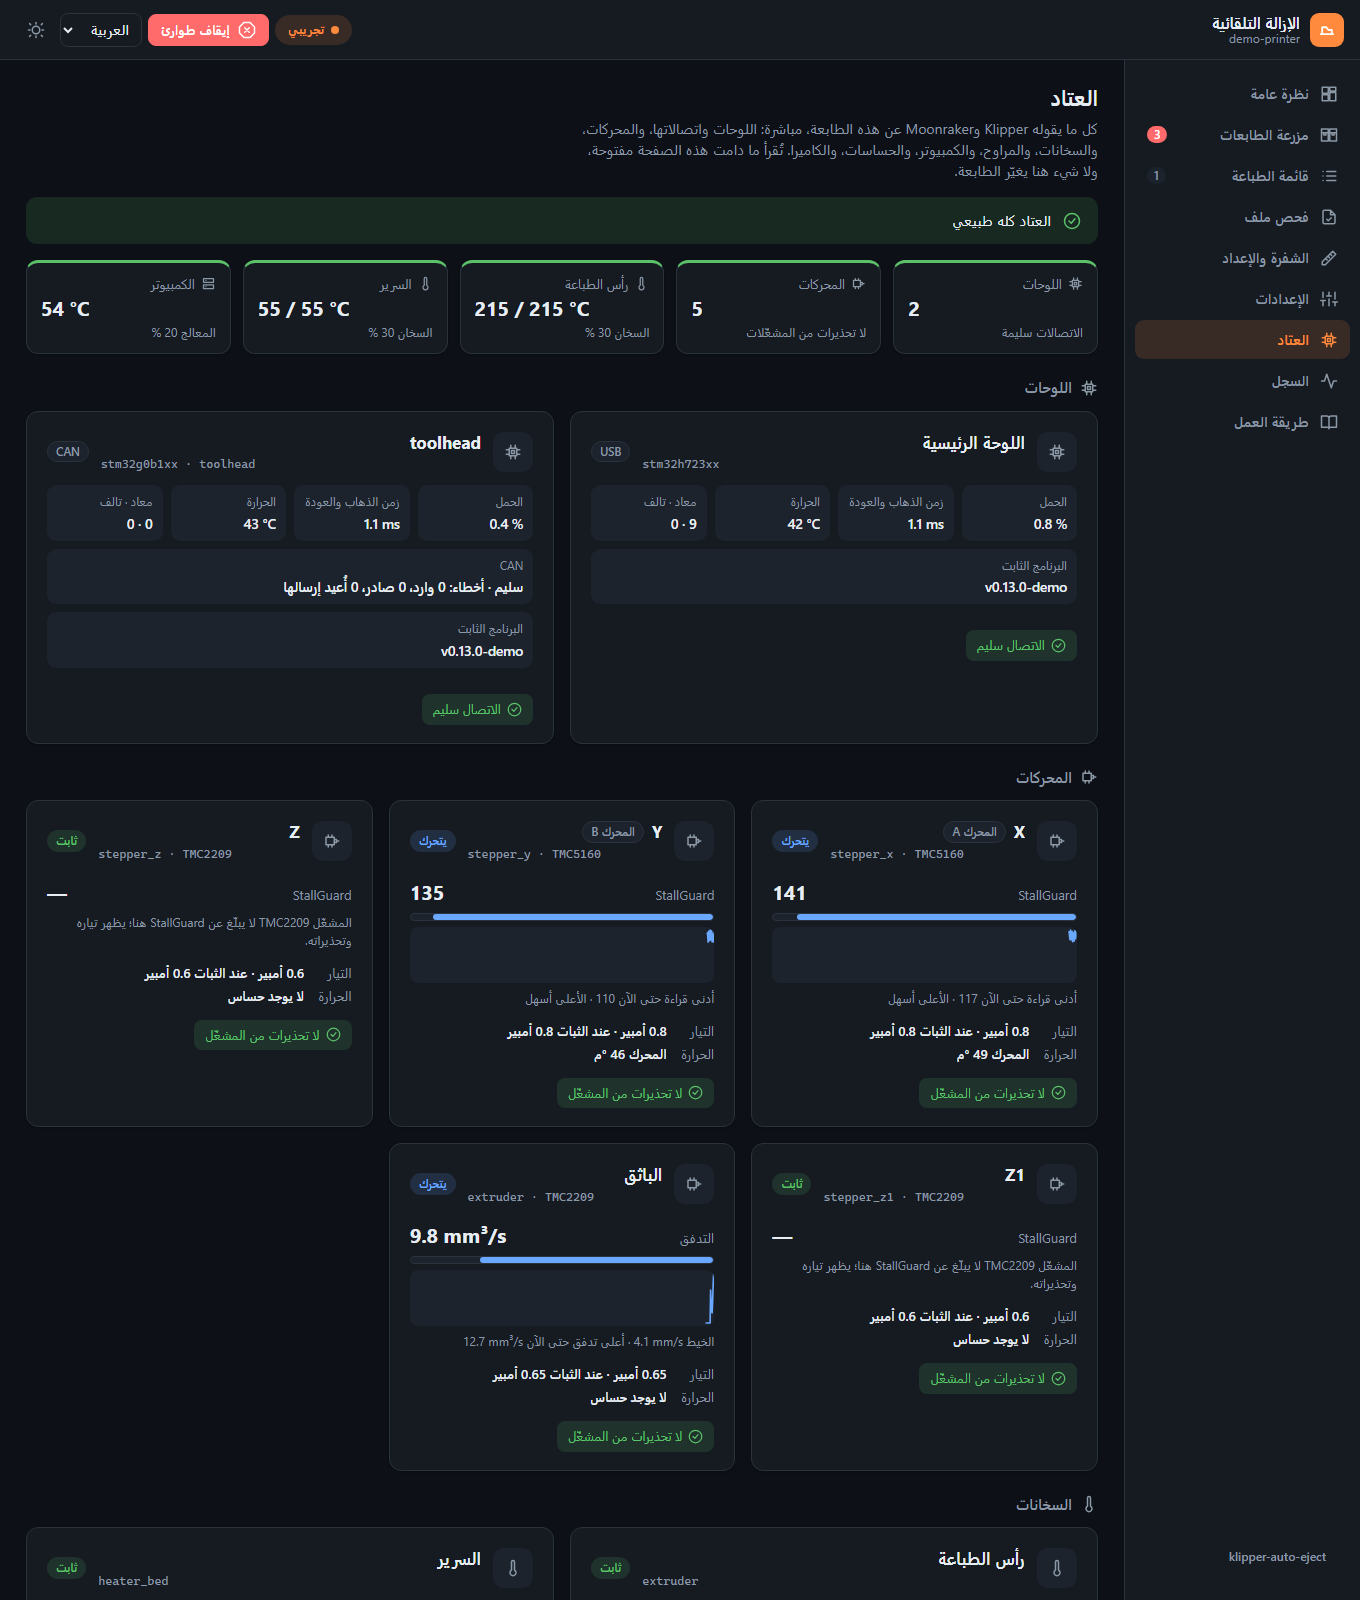
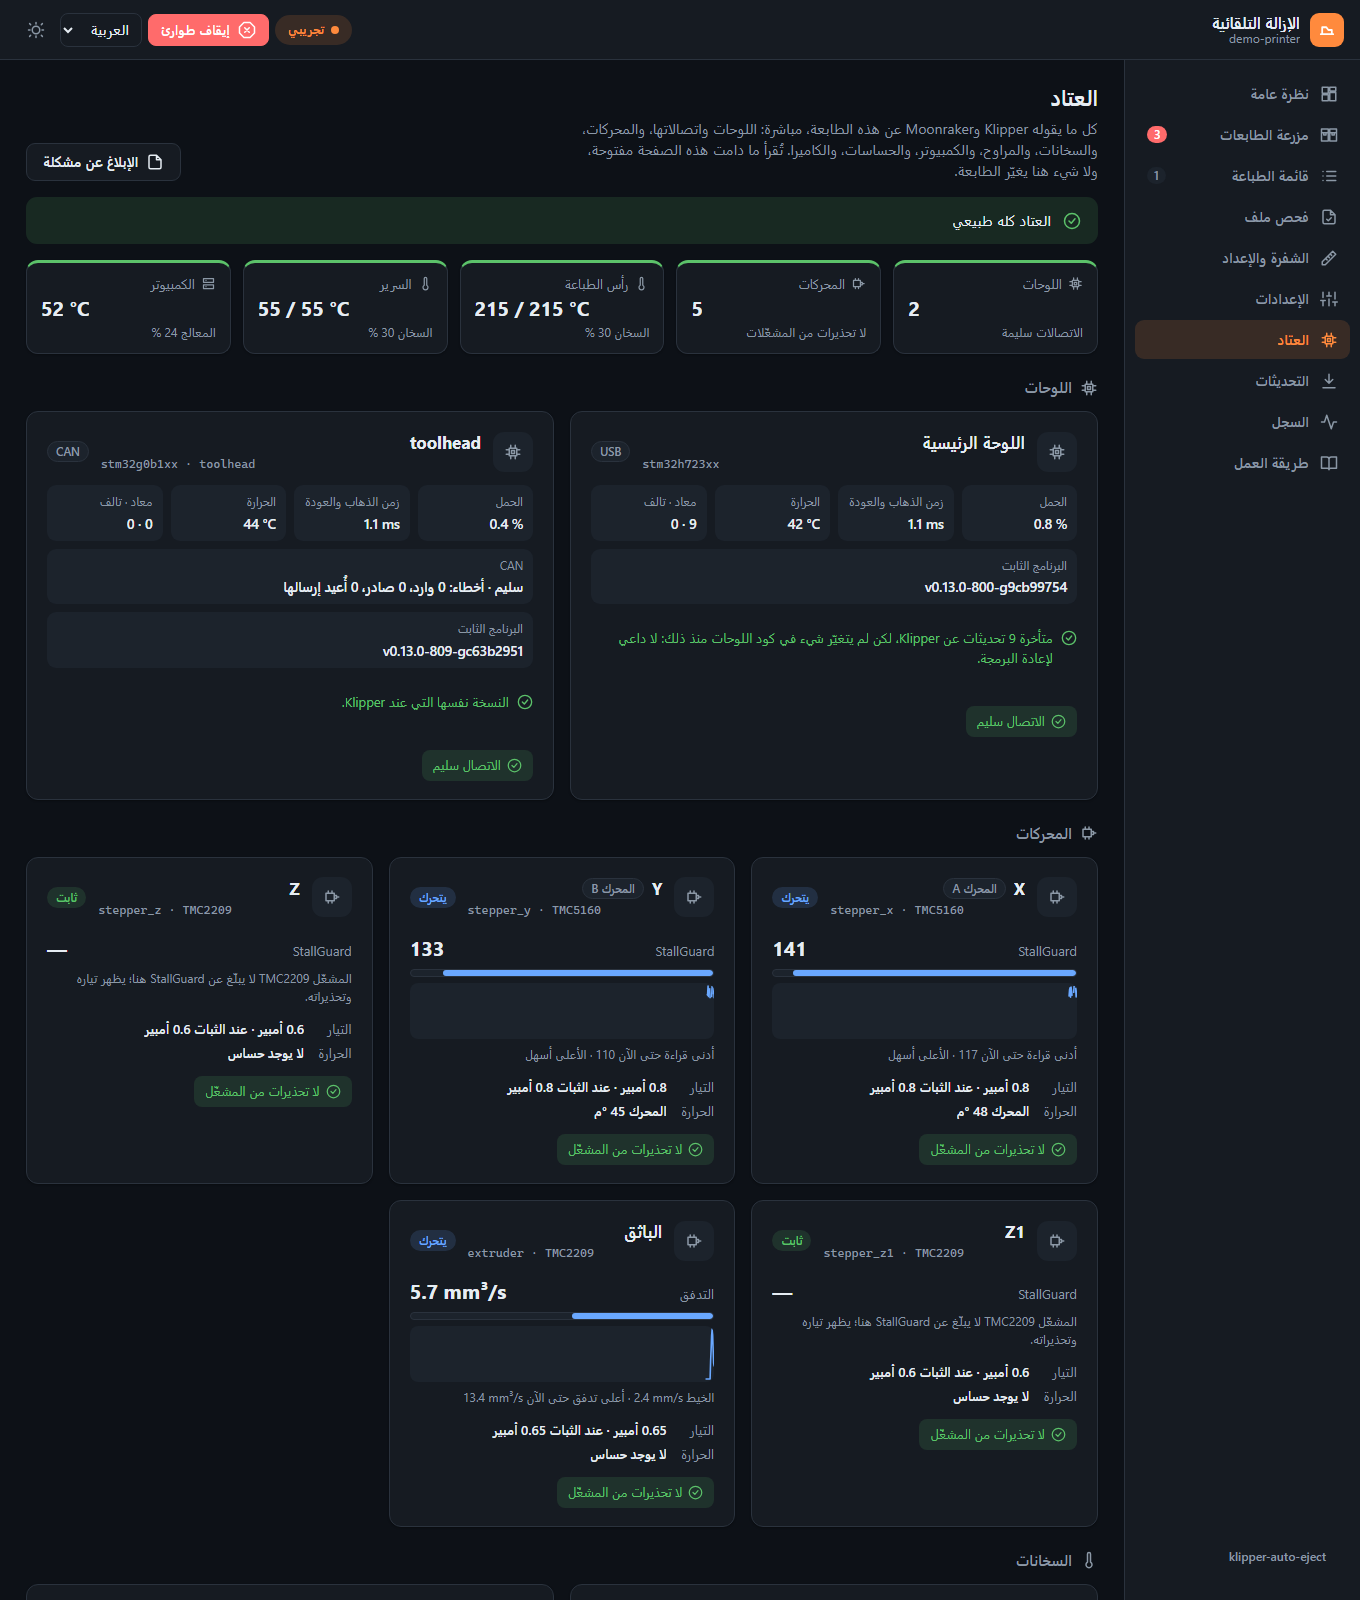
Docs: pictures of Updates, Report a problem and the boards' firmware
New Updates and Report a problem sections on the web page docs, in
English and Arabic, with pictures; the Hardware pictures again, now with
each board's firmware against Klipper.

Fix: the Updates tab asked for the boards' firmware only once, so a page
opened before Klipper had listed its boards showed none of them for ten
minutes. The firmware is now read as soon as the boards are known, and
again after every Klipper restart. The Yours/Latest line follows the
page's direction.

diff --git a/web/app.js b/web/app.js
@@ -3076,23 +3076,27 @@
   // Moonraker's update manager, and what that means here. GitHub tells which
   // files an update changes: code that runs on the boards needs a reflash, and
   // Klipper writes its notes on config changes in docs/Config_Changes.md.
-  const upd = { status: null, at: 0, loading: false, mcus: [], res: {}, ask: {}, open: {} };
+  const upd = { status: null, at: 0, loading: false, mcus: [], mcuKey: "", mcuLoading: false, res: {}, ask: {}, open: {} };
 
   function loadUpdates(force) {
-    if (upd.loading || app.conn !== "online" || (!force && upd.status && Date.now() - upd.at < 600000)) return;
-    upd.loading = true;
+    if (app.conn !== "online") return;
+    // the boards' firmware, once Klipper has listed them, and again after it restarts
     const mcus = (app.objects || []).filter((o) => o === "mcu" || o.startsWith("mcu "));
-    Promise.all([
-      client.call("machine.update.status", { refresh: false }).then((r) => r.version_info || {}, () => ({})),
-      mcus.length ? client.call("printer.objects.query", { objects: Object.fromEntries(mcus.map((o) => [o, ["mcu_version"]])) })
-        .then((r) => r.status || {}, () => ({})) : Promise.resolve({})
-    ]).then(([vi, ms]) => {
-      upd.status = vi;
-      upd.at = Date.now();
-      upd.mcus = mcus.map((o) => ({ obj: o, version: (ms[o] || {}).mcu_version || "" }));
-    }).then(() => { upd.loading = false; refresh(); });
+    if (mcus.length && upd.mcuKey !== mcus.join() && !upd.mcuLoading) {
+      upd.mcuLoading = true;
+      upd.mcuKey = mcus.join();
+      client.call("printer.objects.query", { objects: Object.fromEntries(mcus.map((o) => [o, ["mcu_version"]])) })
+        .then((r) => { upd.mcus = mcus.map((o) => ({ obj: o, version: ((r.status || {})[o] || {}).mcu_version || "" })); }, () => { upd.mcuKey = ""; })
+        .then(() => { upd.mcuLoading = false; refresh(); });
+    }
+    if (upd.loading || (!force && upd.status && Date.now() - upd.at < 600000)) return;
+    upd.loading = true;
+    client.call("machine.update.status", { refresh: false }).then((r) => r.version_info || {}, () => ({}))
+      .then((vi) => { upd.status = vi; upd.at = Date.now(); })
+      .then(() => { upd.loading = false; refresh(); });
   }
   client.on("notify_update_refreshed", () => { if (["updates", "hardware"].includes(route())) loadUpdates(true); });
+  client.on("notify_klippy_ready", () => { upd.mcuKey = ""; });
 
   // GitHub's answer to a path, or undefined while it is read and null when it
   // could not be. Kept in the browser: a range of commits never changes.
@@ -3174,7 +3178,7 @@
     const head = h("h2", null, icon("download"), "Klipper",
       h("span", { class: "right" }, h("span", { class: "badge " + (behind.length ? "warn" : "ok"),
         text: behind.length ? t("upd.n_updates", { n: num(kl.commits_behind_count || behind.length, 0) }) : t("upd.up_to_date") })));
-    const versions = h("p", { class: "muted ltr", text: t("upd.yours", { v: kl.version || "?" }) + (behind.length ? " · " + t("upd.latest", { v: kl.remote_version || "?" }) : "") });
+    const versions = h("p", { class: "muted", text: t("upd.yours", { v: iso(kl.version || "?") }) + (behind.length ? " · " + t("upd.latest", { v: iso(kl.remote_version || "?") }) : "") });
     if (!behind.length) {
       const recent = kl.current_hash ? ghGet(klipperRepo() + "/commits?sha=" + kl.current_hash + "&per_page=15") : null;
       return h("section", { class: "card" }, head, versions,

diff --git a/docs/ar/web-page.md b/docs/ar/web-page.md
@@ -48,7 +48,7 @@
 ثانية) دون أن يغيّر شيئًا. يظهر كل جزء فقط إن كان موجودًا في الطابعة. والسطر العلوي يقول **العتاد كله طبيعي** أو ما
 يحتاج نظرة.
 
-<p align="center"><img src="../images/hardware-ar.png" alt="تبويب العتاد: اللوحات واتصالاتها، والمحركات مع خط StallGuard، والسخانات" width="900"></p>
+<p align="center"><img src="../images/hardware-ar.png" alt="تبويب العتاد: اللوحات واتصالاتها، وبرنامج كل منها مقارنةً بـ Klipper، والمحركات مع خط StallGuard، والسخانات" width="900"></p>
 
 | القسم | ماذا يعرض | متى يحذّر |
 |---|---|---|
@@ -95,6 +95,35 @@ sensor_pin: PF6        # مدخل ثرمستور فارغ في لوحتك
 
 الأسماء التي يتعرف عليها: `motor_x` و`motor_y` و`motor_z` و`motor_e` (أو `stepper_x`…)، و`motor_a`
 و`motor_b` لمحركي السير في CoreXY. ويعرضها التبويب على بطاقة ذلك المحرك، بالبرتقالي من 65 °م وبالأحمر من 80 °م.
+
+### التحديثات
+
+يعرض تبويب **التحديثات** ما تغيّر في Klipper منذ نسختك، كما يراه مدير التحديثات في Moonraker، وماذا يعني
+ذلك لهذه الطابعة:
+
+- كل تحديث بكلمات Klipper نفسه، مع ما يخصه: الحركة، أو السخانات، أو تخميد الاهتزاز، أو برامج اللوحات، أو
+  التوثيق…؛
+- هل تغيّر التحديثات الكود الذي يعمل على اللوحات: عندها أعد برمجتها بعد تحديث Klipper. وإن لم يغيّره أي
+  تحديث، فلا تحتاج إلى إعادة برمجة؛
+- ملاحظات Klipper على تغييرات الإعدادات (`docs/Config_Changes.md`)، عندما يضيف تحديث ملاحظة؛
+- برنامج كل لوحة مقارنةً بـ Klipper: كم تحديثًا متأخرة، وهل تغيّر كود اللوحات منذ ذلك. والسطر نفسه تحت كل
+  لوحة في **العتاد**؛
+- كل ما يحدّثه Moonraker غير ذلك (Moonraker، وMainsail أو Fluidd، وcrowsnest، والإزالة التلقائية…)، وما له
+  نسخة جديدة أولًا.
+
+وعندما يكون Klipper محدّثًا، يعرض آخر التحديثات التي عندك. وما يغيّره كل تحديث يقرؤه متصفحك من GitHub ويحتفظ
+به؛ ومن دون إنترنت تظهر القائمة رغم ذلك. أما التحديث نفسه فيبقى من Mainsail أو Fluidd.
+
+<p align="center"><img src="../images/updates-ar.png" alt="تبويب التحديثات: Klipper متأخر سبعة تحديثات، ثلاثة منها تغيّر برامج اللوحات، والقائمة بكلمات Klipper، وبرامج اللوحات، وكل ما يحدّثه Moonraker" width="900"></p>
+
+### الإبلاغ عن مشكلة
+
+زر **الإبلاغ عن مشكلة**، في **العتاد** و**السجل**، يجمع ما تطلبه استمارة المشكلة على GitHub: النسخ (الإزالة
+التلقائية، وKlipper، وكل لوحة، وMoonraker، وصفحة الويب، ومجموعة الماكرو)، والطابعة، وحالتها، والإعدادات التي
+غيّرتها عن الافتراضي، وآخر أسطر الإزالة التلقائية في الكونسول. وتُحذف منه عناوين IP وأسماء الأجهزة. انسخه أو
+احفظه كملف، والصقه في مشكلة جديدة مع ما حدث، وأرفق `klippy.log` من الرابط تحته.
+
+<p align="center"><img src="../images/report-ar.png" alt="نافذة الإبلاغ عن مشكلة: النسخ والطابعة والإعدادات كنص، مع نسخ وحفظ كملف وفتح مشكلة على GitHub" width="900"></p>
 
 ### صور المطبوعات
 

diff --git a/docs/web-page.md b/docs/web-page.md
@@ -51,7 +51,7 @@ The **Hardware** tab shows what Klipper and Moonraker report about the machine, 
 is open (Klipper once a second) and never changing anything. Each part shows only when the machine
 has it. The line at the top says **All hardware normal**, or what needs a look.
 
-<p align="center"><img src="images/hardware.png" alt="The Hardware tab: the boards and their links, the motors with their StallGuard line, the heaters" width="900"></p>
+<p align="center"><img src="images/hardware.png" alt="The Hardware tab: the boards and their links, each with its firmware against Klipper, the motors with their StallGuard line, the heaters" width="900"></p>
 
 | Section | What it shows | What it warns about |
 |---|---|---|
@@ -103,6 +103,37 @@ sensor_pin: PF6        # a free thermistor input on your board
 Names it finds: `motor_x`, `motor_y`, `motor_z`, `motor_e` (or `stepper_x`…), and `motor_a` and
 `motor_b` for CoreXY belt motors. The tab shows it on that motor's card, orange from 65 °C and red
 from 80 °C.
+
+### Updates
+
+The **Updates** tab lists what changed in Klipper since your version, as Moonraker's update
+manager sees it, and what that means for this printer:
+
+- each update in Klipper's own words, with what it is about: motion, heaters, input shaping,
+  board firmware, documentation…;
+- whether the updates change the code that runs on the boards: then reflash them after updating
+  Klipper. If none does, they need no reflash;
+- Klipper's own notes on config changes (`docs/Config_Changes.md`), when an update adds one;
+- each board's firmware against Klipper: how many updates behind, and whether the board code
+  changed since. The same line is under each board on **Hardware**;
+- everything else Moonraker updates (Moonraker, Mainsail or Fluidd, crowsnest, auto-eject…), the
+  ones with a new version first.
+
+When Klipper is up to date, it lists the latest updates you have. What each update changes is read
+from GitHub by your browser and kept there; without internet the list still shows. Updating stays
+in Mainsail or Fluidd.
+
+<p align="center"><img src="images/updates.png" alt="The Updates tab: Klipper seven updates behind, three of them changing board firmware, the list in Klipper's words, and everything else Moonraker updates" width="900"></p>
+
+### Report a problem
+
+**Report a problem**, on **Hardware** and **Activity**, gathers what a GitHub issue asks for: the
+versions (auto-eject, Klipper, every board, Moonraker, the web page, the macro set), the printer,
+its state, the settings you changed from the defaults and the latest auto-eject lines of the
+console. IP addresses and host names are taken out. Copy it, or save it as a file, and paste it
+into a new issue with what happened; attach `klippy.log` from the link under it.
+
+<p align="center"><img src="images/report.png" alt="The Report a problem dialog: the versions, the printer and the settings as text, with Copy, Save as a file and Open an issue on GitHub" width="900"></p>
 
 ### Pictures of the prints
 
